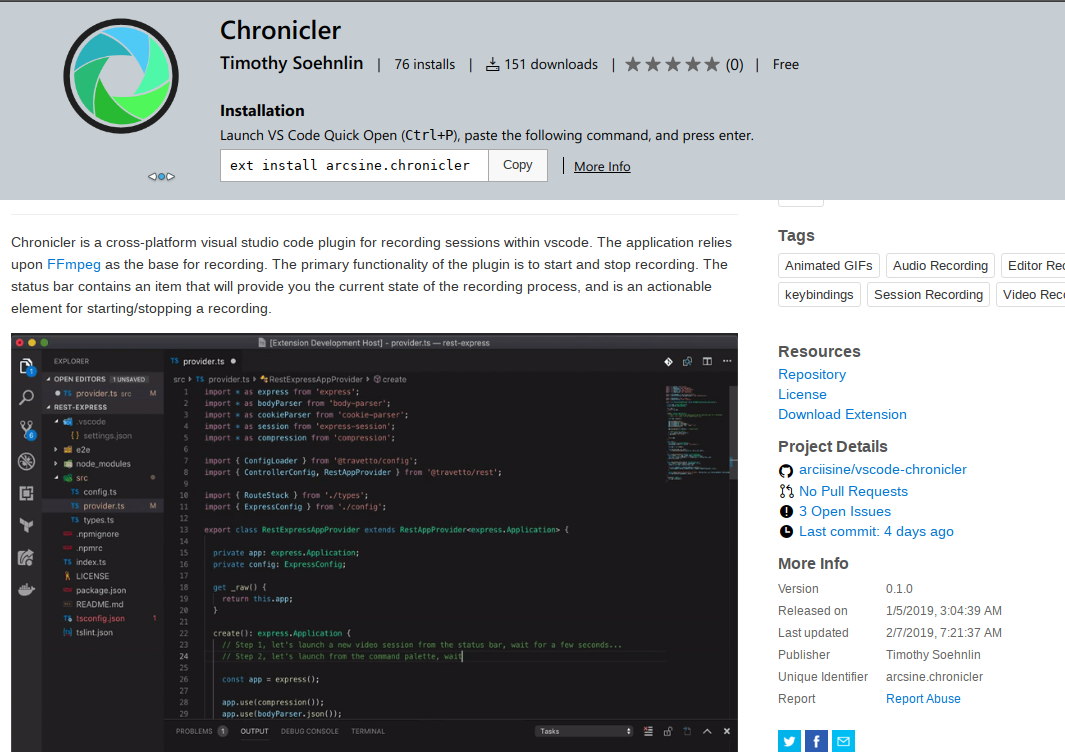
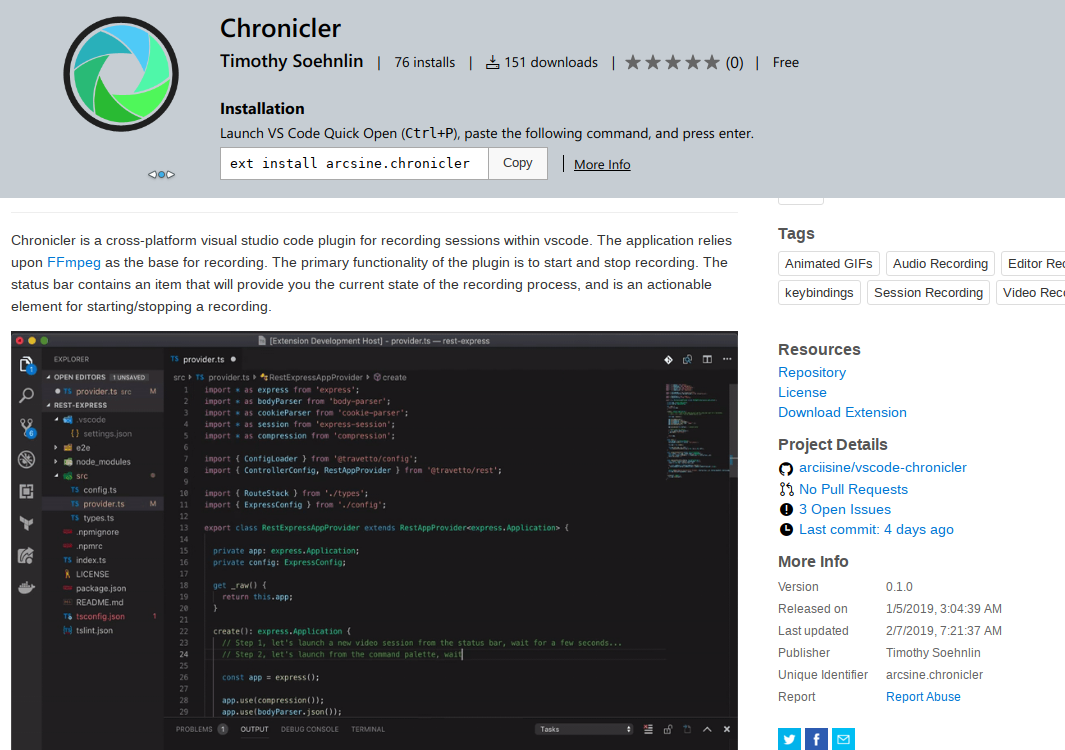
Reworking landing screenshots

diff --git a/src/app/landing/landing.component.html b/src/app/landing/landing.component.html
@@ -79,8 +79,8 @@
   </section>
 
   <section class="right img">
-    <a href="https://travetto.io" target="_blank">
-      <img src="/assets/project-travetto.png">
+    <a href="https://travetto.dev" target="_blank">
+      <img src="/assets/project-travetto-fs8.png">
     </a>
   </section>
 
@@ -106,7 +106,7 @@
   <section class="right img">
     <a href="https://marketplace.visualstudio.com/items?itemName=arcsine.chronicler"
       target="_blank">
-      <img src="/assets/project-chronicler.png">
+      <img src="/assets/project-chronicler-fs8.png">
     </a>
   </section>
 
@@ -128,7 +128,7 @@
 
   <section class="right img">
     <a href="http://materialtheme.arcsine.dev" target="_blank">
-      <img src="/assets/project-materialtheme.png">
+      <img src="/assets/project-materialtheme-fs8.png">
     </a>
   </section>
 

diff --git a/src/app/landing/landing.component.scss b/src/app/landing/landing.component.scss
@@ -30,7 +30,7 @@
     grid-row: 1;
     width: 100%;
     height: 100%;
-    background-color: rgba(0, 0, 0, .3);
+    background-color: rgba(0, 0, 0, .1);
     z-index: 3;
   }
 
